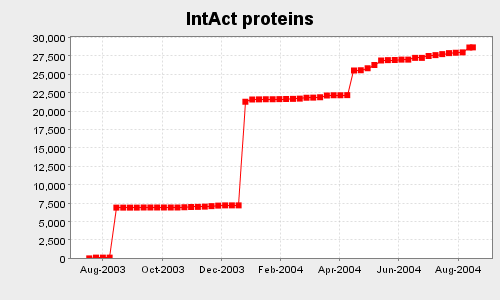
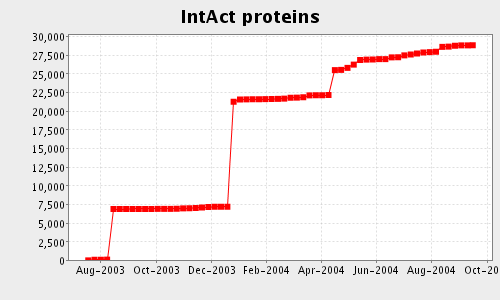
Update

Changed region(s): [[0.06, 0.03, 1.0, 0.93]]

diff --git a/trunk/intactCore/application/intact/doc/misc/statistics/index.html b/trunk/intactCore/application/intact/doc/misc/statistics/index.html
@@ -95,7 +95,7 @@
         This is the Database from which we extracted the data.
         Database: d002
 -->
-IntAct database contents as of <b>1st September 2004</b>. <br>
+IntAct database contents as of <b>1st October 2004</b>. <br>
                   </td>
                 </tr>
                 <tr>
